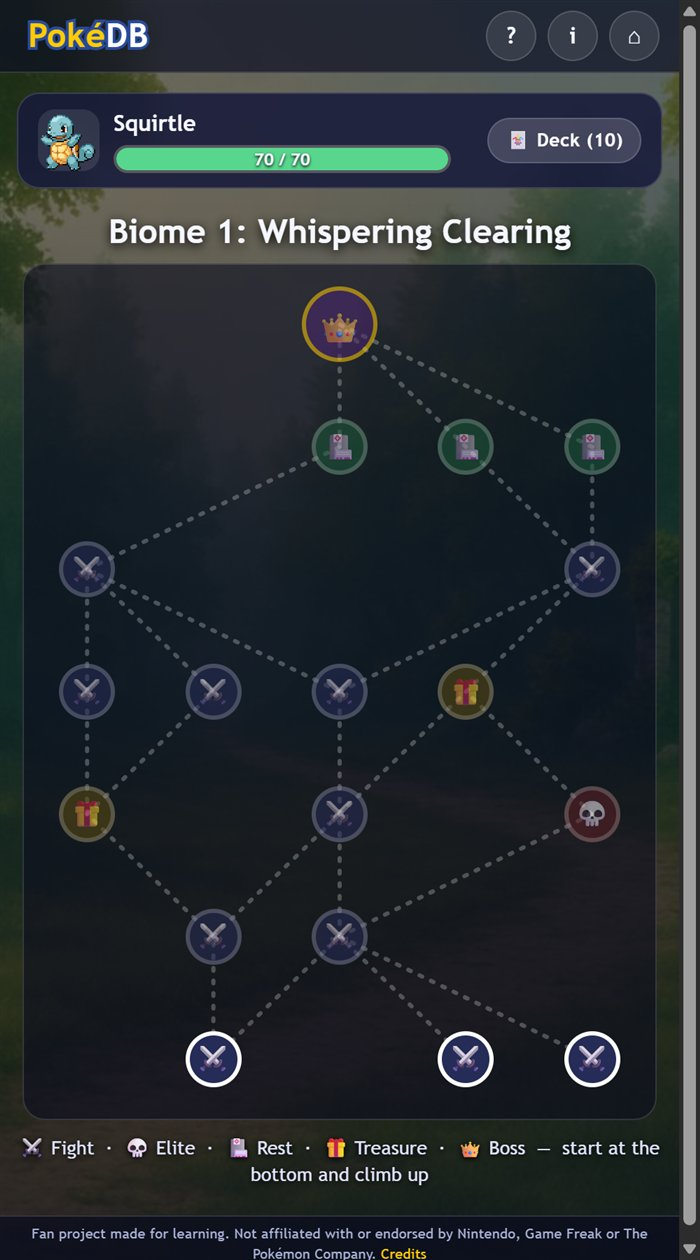
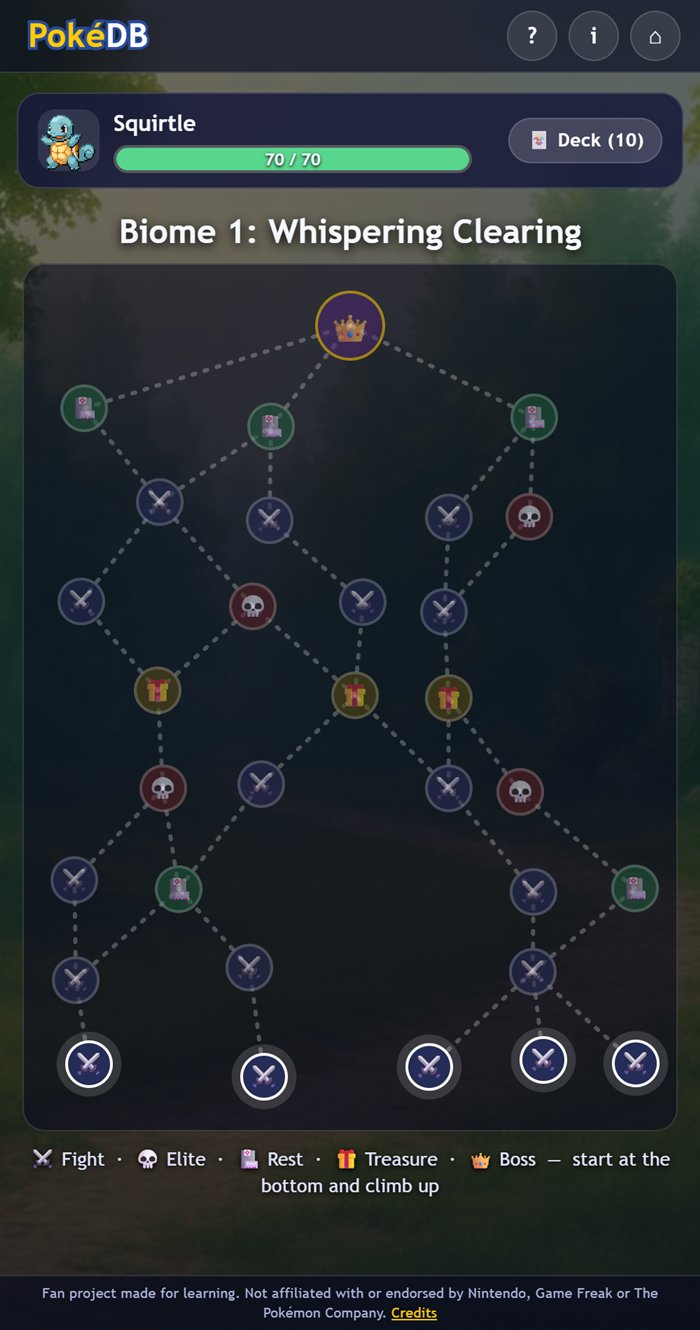
Update README and map screenshots for the new map generation

diff --git a/README.md b/README.md
@@ -24,7 +24,7 @@ A browser roguelike deck-battler. Pick a starter, climb a branching map, grow yo
 ## Features
 
 - Nine starters (three types), each with its own fixed starting deck and three-stage evolution line.
-- A **branching map** for each of three biomes, with fights, elites, rest sites, treasure and a boss. A new map is generated every biome.
+- A **branching map** for each of three biomes, generated the way Slay the Spire does it: random paths that never cross, rooms that only exist where a path went, a treasure floor in the middle, rest sites before the boss, and room rules like "no two rest sites in a row". A new map is generated for every biome.
 - **Card rewards and relics:** 32 cards across common, uncommon and rare rarities, and 11 relics (Charcoal, Leftovers, Focus Sash, Scope Lens…).
 - **Turn-based battles** with an energy system, draw and discard piles that reshuffle, enemy intent, type advantages and status effects.
 - **Every enemy is a real Pokémon:** 15 wild Pokémon across the three biomes, three elite "Alpha" fights, and the bosses Snorlax, Tangrowth and Salamence, each with its own move pattern.
@@ -60,7 +60,7 @@ css/
 js/
   main.js             start screen and moving between screens
   run.js              one run: the map loop, rewards, evolution, the end
-  map.js              building and drawing the branching map
+  map.js              building (Slay the Spire style) and drawing the branching map
   rewards.js          the "choose one" screen and what you are offered
   battle.js           the turn-based battle (rules on top, drawing below)
   deckpreview.js      the read-only deck preview and deck pop-up
@@ -81,6 +81,7 @@ serve.ps1             tiny local web server for Windows
 
 All the numbers are plain data, so you can tune the game without touching the rules:
 
+- **Map size and room odds:** the constants at the top of `js/map.js` (`COLS`, `FLOORS`, `PATHS`, `ROOM_ODDS`). More floors means a longer run with more rewards.
 - **Cards:** `js/data/cards.js`. For example `{ id: 'ember', name: 'Ember', type: 'fire', cost: 1, art: '🔥', effects: { damage: 8 } }`. The text on the card is generated from `effects`.
 - **Starter decks and HP:** `js/data/starters.js` (`deck`, `BASE_HP`, `HP_PER_STAGE`).
 - **Enemy HP and damage, and how much harder each biome gets:** `js/data/enemies.js` (`hpMult`, `dmgBonus`, `bossBonus`).
